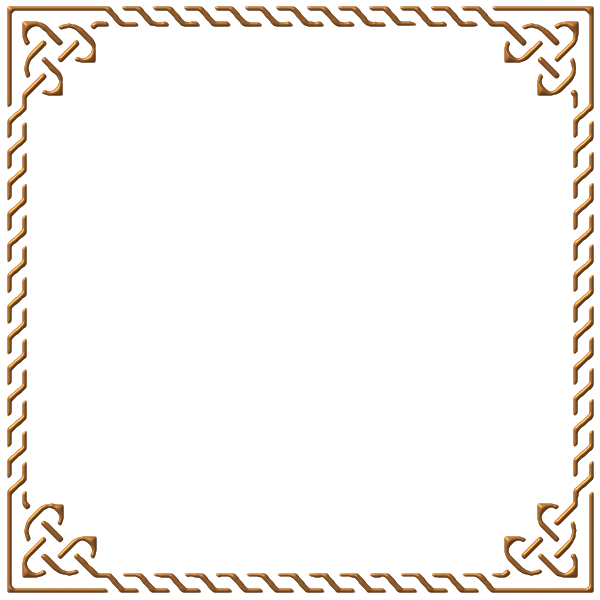
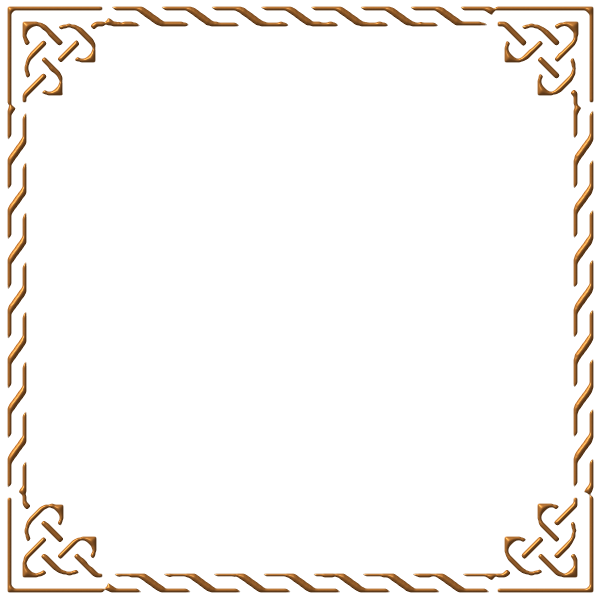
v7.79: treccia metallica piu aperta su bottini e cornici oro/rosso 3D per vittoria e sconfitta

Changed region(s): [[0.0, 0.0, 0.99, 0.99], [0.12, 0.09, 0.15, 0.12], [0.09, 0.12, 0.12, 0.15]]

diff --git a/index.html b/index.html
@@ -1453,24 +1453,28 @@ html.is-ios-standalone .header {
 
 /* Risultati finali (Sigilli in pietra scura) */
 .combat-line.result-win {
-  background: linear-gradient(180deg, #18140d 0%, #0f0d0a 100%);
-  border: 1px solid rgba(212, 160, 23, 0.45);
-  border-top: 2px solid var(--gold);
-  border-radius: var(--card-r);
-  box-shadow: inset 0 0 0 3px #0f0d0a, inset 0 0 0 4px rgba(212, 160, 23, 0.14);
+  background:
+    radial-gradient(ellipse at 50% 34%, rgba(74, 54, 14, 0.18) 0%, rgba(22, 16, 6, 0.10) 55%, transparent 82%),
+    linear-gradient(170deg, #100d08 0%, #080705 55%, #0c0a06 100%);
+  border: 10px solid transparent;
+  border-image: url("img/cornice_oro.png") 105 / 16px round;
+  border-radius: 2px;
+  box-shadow: 0 12px 32px rgba(0, 0, 0, 0.75), 0 0 18px rgba(212, 160, 23, 0.08);
   color: var(--text);
   text-align: center;
-  padding: 16px 14px;
+  padding: 14px 12px;
 }
 .combat-line.result-lose {
-  background: linear-gradient(180deg, #17100e 0%, #0f0d0a 100%);
-  border: 1px solid rgba(196, 103, 93, 0.45);
-  border-top: 2px solid var(--danger);
-  border-radius: var(--card-r);
-  box-shadow: inset 0 0 0 3px #0f0d0a, inset 0 0 0 4px rgba(196, 103, 93, 0.14);
+  background:
+    radial-gradient(ellipse at 50% 34%, rgba(74, 18, 16, 0.18) 0%, rgba(24, 8, 8, 0.10) 55%, transparent 82%),
+    linear-gradient(170deg, #110a09 0%, #080605 55%, #0d0807 100%);
+  border: 10px solid transparent;
+  border-image: url("img/cornice_rosso.png") 105 / 16px round;
+  border-radius: 2px;
+  box-shadow: 0 12px 32px rgba(0, 0, 0, 0.75), 0 0 18px rgba(196, 62, 54, 0.08);
   color: var(--text);
   text-align: center;
-  padding: 16px 14px;
+  padding: 14px 12px;
 }
 .combat-line.result-fled {
   background: linear-gradient(180deg, #16130f 0%, #0f0d0a 100%);

diff --git a/js/data.js b/js/data.js
@@ -5,7 +5,7 @@
  ============================================================ */
 
 /* ── App info ── */
-export const APP_VERSION = "7.78";
+export const APP_VERSION = "7.79";
 export const APP_RELEASE = "28/11/2026";
 export const APP_DEV = "djiglio.ai";
 
